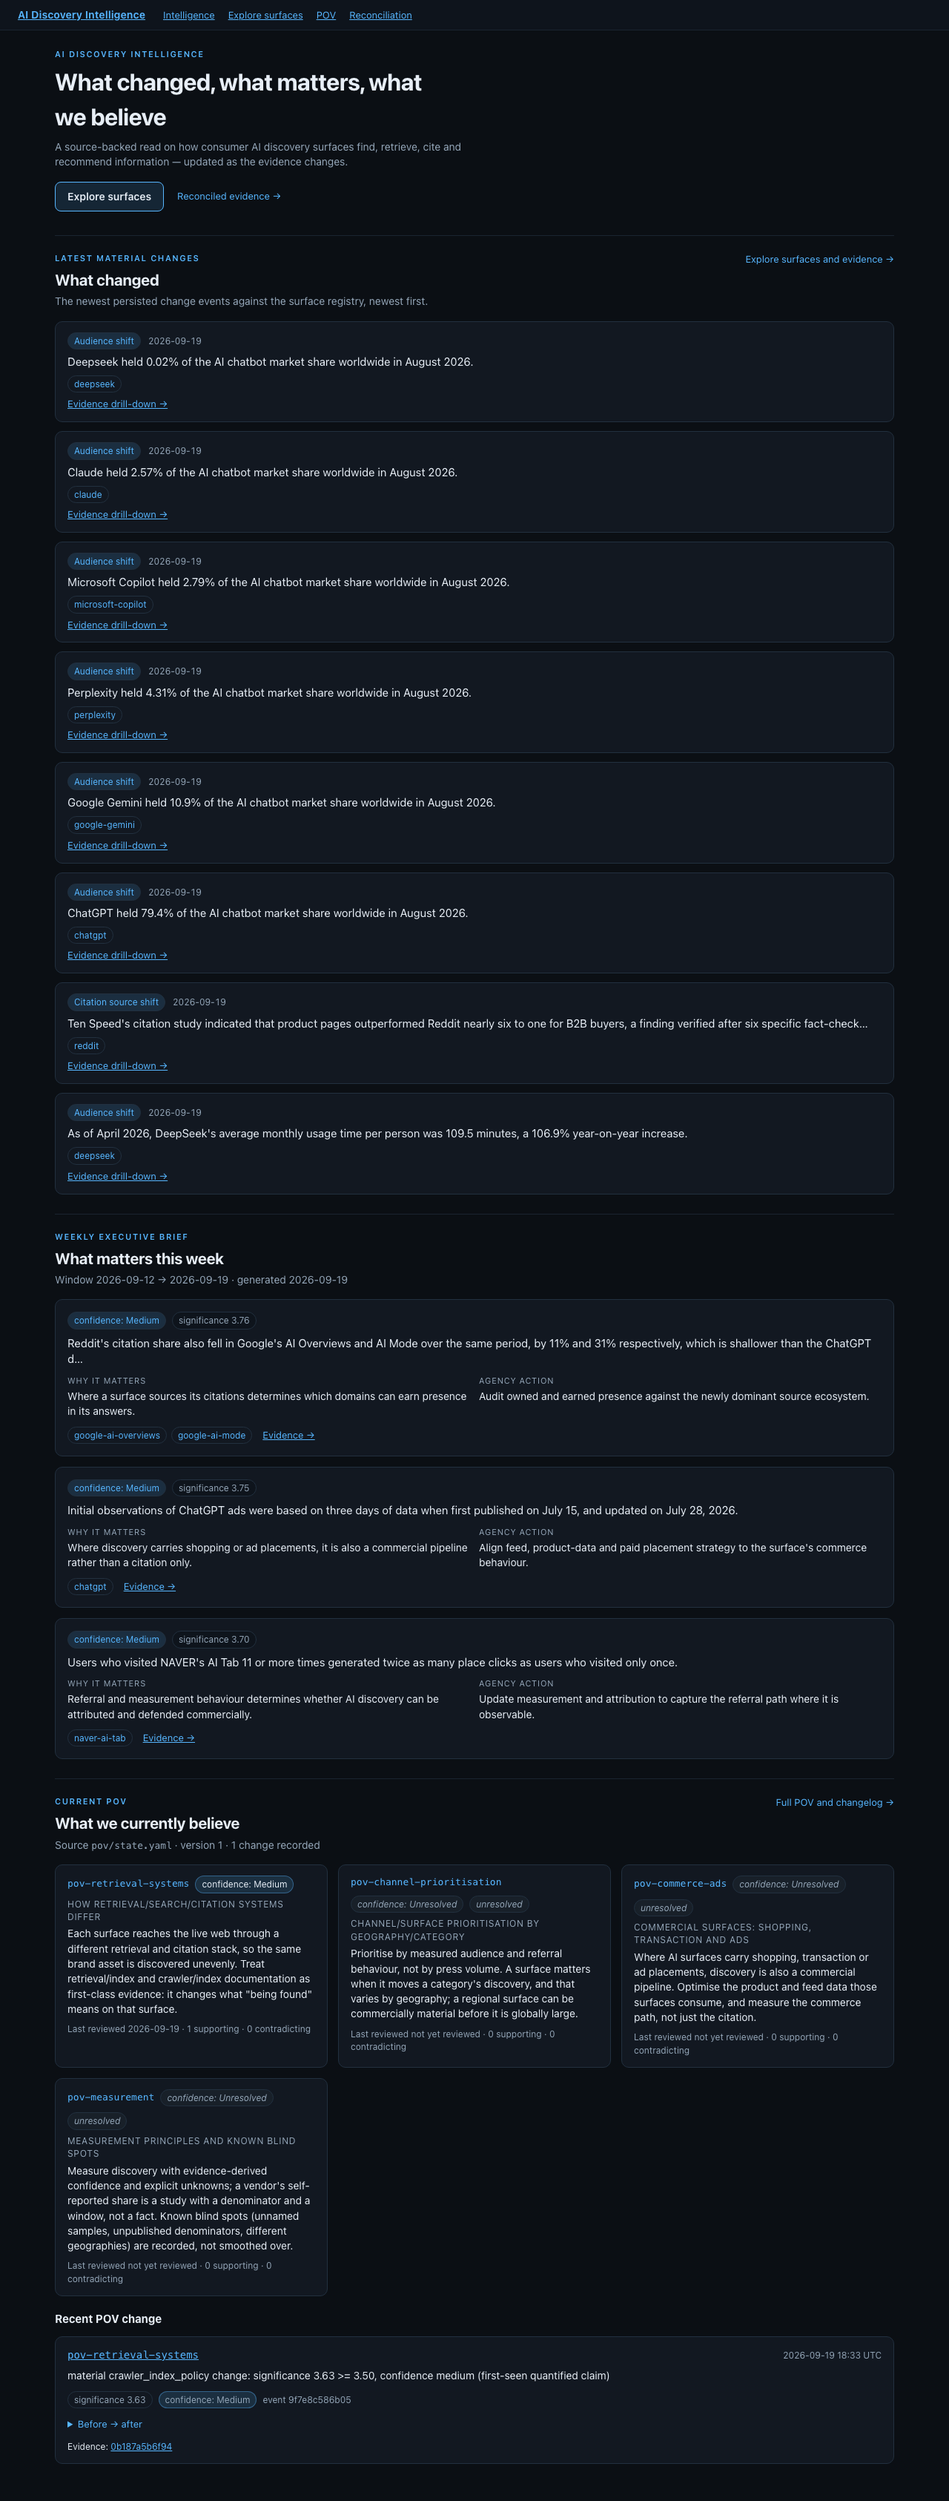
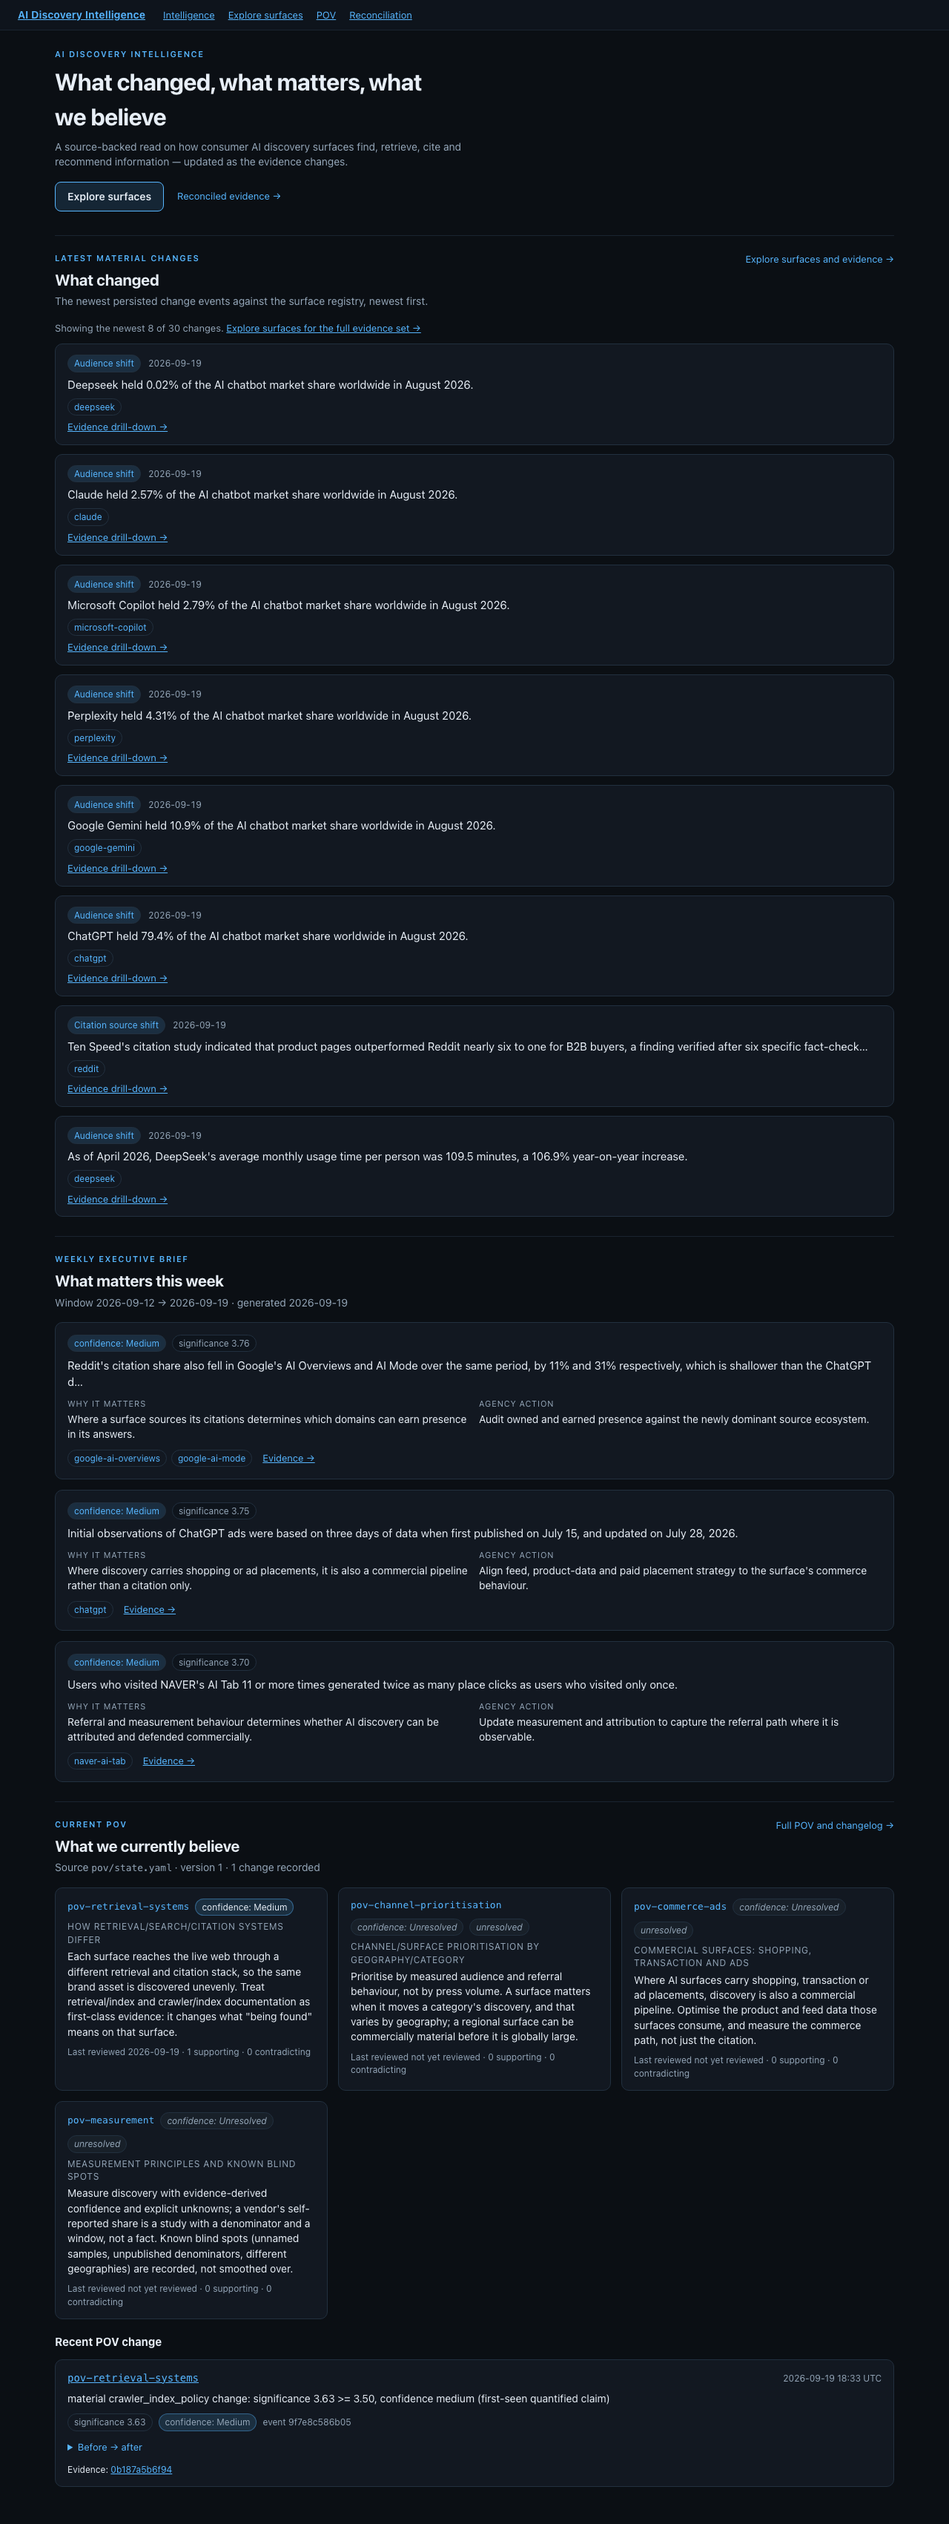
#45: address frontier review — fetch timeout, portable e2e, taxonomy, truncation
F2 (P2): bound the landing-critical reads. `fetchEvents`/`fetchBrief` now pass
`AbortSignal.timeout(2500)` (INTEL_FETCH_TIMEOUT_MS, matching
`@/lib/reconciliation`), so a slow/hung backend renders the explicit
unavailable state instead of hanging the force-dynamic homepage.

F4 (P2): make `e2e/landing.spec.ts` portable. It now asserts only structural
invariants — exactly one mutually-exclusive state per section (populated /
explicit-empty / unavailable) — and gates live-data assertions behind the
repo's `HAS_API` convention. Passes on a fresh clone with no API and on a
healthy-but-empty backend.

F1 (P2): align the event-type labels with the real backend EventType taxonomy
(src/ai_discovery/change_events.py) and add a Title-Case fallback so taxonomy
drift renders consistently. Helpers moved to `lib/intel.ts` and covered by a
unit test asserting every backend EventType has a label or a well-formed
fallback.

F3 (P3): disclose the 8-item truncation ("Showing the newest 8 of N changes")
with a link to the fuller evidence view.

F5 (P3): clamp unbounded brief prose defensively via `clampText`.

Tests: intel.test.ts now covers the timeout path (hung fetch -> error, no
hang), the taxonomy, and clampText. 63 unit tests pass; e2e 23 passed / 7
viewport-skips with the live API, and landing passes with no API set.

Refs #45

diff --git a/web/e2e/landing.spec.ts b/web/e2e/landing.spec.ts
@@ -2,6 +2,7 @@ import { expect, test } from "@playwright/test";
 import { mkdirSync } from "node:fs";
 
 const SHOTS = "proof";
+const HAS_API = Boolean(process.env.EVIDENCE_API_URL || process.env.EVIDENCE_FIXTURE);
 
 /** Screenshot path namespaced by project so desktop and mobile never collide. */
 function shot(testInfo: import("@playwright/test").TestInfo, name: string): string {
@@ -14,61 +15,97 @@ test.beforeAll(() => {
 });
 
 /**
- * Real-browser proof for the intelligence-first landing (issue #45). It runs
- * against the live evidence API configured for the app: the landing must show
- * real material changes, the real weekly brief and the canonical POV. An
- * unreachable backend fails these rather than passing on fixtures.
+ * Landing proof for issue #45. This file is portable: on a fresh clone with no
+ * `EVIDENCE_API_URL` the landing renders its explicit unavailable states and
+ * these tests still pass. The live-data assertions only run when the API is
+ * configured (matching the `HAS_API` convention in `evidence-drilldown.spec.ts`),
+ * so a healthy-but-empty backend is also a passing case.
  *
- * The empty-versus-unavailable distinction is asserted structurally: exactly
- * one state per section is present, and its test id names which (…-empty vs
- * …-unavailable). The branch logic itself is unit-tested in tests/intel.test.ts.
+ * The invariant asserted everywhere is structural: each section renders EXACTLY
+ * ONE of its mutually-exclusive states — populated, explicit-empty, or
+ * unavailable — and never more than one, and never none.
  */
-test("landing leads with real changes, brief and current POV", async ({ page }, testInfo) => {
+async function assertSingleState(
+  page: import("@playwright/test").Page,
+  section: string,
+  stateIds: string[],
+): Promise<void> {
+  const scope = page.getByTestId(section);
+  await expect(scope).toBeVisible();
+  const present = await scope
+    .locator(stateIds.map((id) => `[data-testid="${id}"]`).join(", "))
+    .count();
+  expect(present, `${section} must render exactly one state`).toBe(1);
+}
+
+test("landing renders a single, well-formed state per section", async ({ page }, testInfo) => {
   await page.goto("/");
 
   // Hero frames the product, not the registry.
   await expect(page.getByRole("heading", { level: 1 })).toContainText("What changed");
   await expect(page.getByRole("link", { name: "Explore surfaces", exact: true }).first()).toBeVisible();
 
-  // 1. Latest material changes from the real /events feed.
-  const changes = page.getByTestId("landing-changes");
-  await expect(changes).toBeVisible();
-  await expect(changes.getByTestId("changes-unavailable")).toHaveCount(0);
-  await expect(changes.getByTestId("change-list")).toBeVisible();
-  const changeItems = changes.getByTestId("change-list").locator("> li");
-  expect(await changeItems.count()).toBeGreaterThanOrEqual(1);
-  expect((await changeItems.first().innerText()).trim().length).toBeGreaterThan(10);
+  // Each section renders exactly one of populated / explicit-empty / unavailable.
+  await assertSingleState(page, "landing-changes", ["change-list", "changes-empty", "changes-unavailable"]);
+  await assertSingleState(page, "landing-brief", ["brief-list", "brief-empty", "brief-unavailable"]);
+  await assertSingleState(page, "landing-pov", ["pov-summary"]);
 
-  // 2. Weekly executive brief from the real /brief feed.
-  const brief = page.getByTestId("landing-brief");
-  await expect(brief).toBeVisible();
-  await expect(brief.getByTestId("brief-unavailable")).toHaveCount(0);
-  await expect(brief.getByTestId("brief-list")).toBeVisible();
-  await expect(brief.getByTestId("brief-item").first()).toContainText("Why it matters");
-  await expect(brief.getByTestId("brief-item").first()).toContainText("Agency action");
+  // POV is canonical (committed artifact), so it must always have propositions.
+  expect(await page.getByTestId("pov-summary").locator("> li").count()).toBeGreaterThanOrEqual(1);
 
-  // 3. Current POV from the canonical artifact.
-  const pov = page.getByTestId("landing-pov");
-  await expect(pov).toBeVisible();
-  const povItems = pov.getByTestId("pov-summary").locator("> li");
-  expect(await povItems.count()).toBeGreaterThanOrEqual(1);
-  await expect(pov).toContainText("confidence");
+  // The stale "awaiting ingestion" copy is nowhere on the landing.
+  expect(await page.locator("body").innerText()).not.toContain("awaiting ingestion");
 
   await page.screenshot({ path: shot(testInfo, "intelligence"), fullPage: true });
 });
 
+test("landing shows real changes, brief and current POV from the live API", async ({ page }, testInfo) => {
+  test.skip(!HAS_API, "requires EVIDENCE_API_URL or EVIDENCE_FIXTURE=1");
+  await page.goto("/");
+
+  const changes = page.getByTestId("landing-changes");
+  const brief = page.getByTestId("landing-brief");
+
+  // Live API configured: the landing must NOT render the unavailable state, and
+  // must either show populated data or the honest empty state (both valid).
+  await expect(changes.getByTestId("changes-unavailable")).toHaveCount(0);
+  await expect(brief.getByTestId("brief-unavailable")).toHaveCount(0);
+
+  const changeList = changes.getByTestId("change-list");
+  if ((await changeList.count()) > 0) {
+    const items = changeList.locator("> li");
+    expect(await items.count()).toBeGreaterThanOrEqual(1);
+    expect((await items.first().innerText()).trim().length).toBeGreaterThan(10);
+    // Truncation is disclosed when the feed exceeds the landing's limit.
+    if ((await items.count()) === 8) {
+      await expect(changes.getByTestId("changes-truncation")).toBeVisible();
+    }
+    await page.screenshot({ path: shot(testInfo, "changes"), fullPage: false });
+  } else {
+    await expect(changes.getByTestId("changes-empty")).toBeVisible();
+  }
+
+  const briefList = brief.getByTestId("brief-list");
+  if ((await briefList.count()) > 0) {
+    const first = brief.getByTestId("brief-item").first();
+    await expect(first).toContainText("Why it matters");
+    await expect(first).toContainText("Agency action");
+    await page.screenshot({ path: shot(testInfo, "brief"), fullPage: false });
+  } else {
+    await expect(brief.getByTestId("brief-empty")).toBeVisible();
+  }
+});
+
 test("empty and unavailable states are distinct and mutually exclusive", async ({ page }) => {
   await page.goto("/");
-  // Each section renders exactly one of its states; the ids name which one.
   for (const section of ["landing-changes", "landing-brief"]) {
-    const states = page
-      .getByTestId(section)
-      .locator('[data-testid$="-unavailable"], [data-testid$="-empty"]');
+    const states = page.getByTestId(section).locator('[data-testid$="-unavailable"], [data-testid$="-empty"]');
     expect(await states.count()).toBeLessThanOrEqual(1);
   }
-  // The unavailable copy is unmistakably different from the empty copy.
   const body = await page.locator("body").innerText();
   expect(body).not.toContain("awaiting ingestion");
+  // The unavailable copy and the empty copy are worded differently.
+  expect(body).not.toMatch(/not reachable right now[\s\S]*no material item qualifies/);
 });
 
 test("navigates into Explore surfaces, which keeps all 35 and narrows on search", async ({ page }, testInfo) => {
@@ -81,12 +118,10 @@ test("navigates into Explore surfaces, which keeps all 35 and narrows on search"
 
   await page.getByTestId("search-input").fill("China");
   const summary = page.getByTestId("result-summary");
-  await expect(summary).toContainText('matching');
-  const before = 35;
-  const afterText = await summary.innerText();
-  const after = Number(afterText.match(/^(\d+)/)?.[1] ?? "0");
+  await expect(summary).toContainText("matching");
+  const after = Number((await summary.innerText()).match(/^(\d+)/)?.[1] ?? "0");
   expect(after).toBeGreaterThan(0);
-  expect(after).toBeLessThan(before);
+  expect(after).toBeLessThan(35);
 
   await page.screenshot({ path: shot(testInfo, "explore-surfaces"), fullPage: false });
 });

diff --git a/web/lib/intel.ts b/web/lib/intel.ts
@@ -51,6 +51,14 @@ export interface BriefOutcome {
 
 const NO_BASE = "EVIDENCE_API_URL is not configured";
 
+/**
+ * Bounded per-call timeout (issue #45 review F2). The landing is
+ * `force-dynamic` and fetches both endpoints in `Promise.all`, so a slow or
+ * hung backend would otherwise hang the whole homepage instead of rendering the
+ * explicit "unavailable" state. Matches the pattern in `@/lib/reconciliation`.
+ */
+export const INTEL_FETCH_TIMEOUT_MS = 2500;
+
 /** Latest material change events, newest first. */
 export async function fetchEvents(): Promise<EventsOutcome> {
   if (!evidenceApiBase()) {
@@ -58,7 +66,10 @@ export async function fetchEvents(): Promise<EventsOutcome> {
     return { status: "unconfigured", items: [] };
   }
   try {
-    const res = await fetch(`${evidenceApiBase()}/events`, { next: { revalidate: 60 } });
+    const res = await fetch(`${evidenceApiBase()}/events`, {
+      next: { revalidate: 60 },
+      signal: AbortSignal.timeout(INTEL_FETCH_TIMEOUT_MS),
+    });
     if (!res.ok) {
       console.error(`[intel] GET /events failed: HTTP ${res.status}`);
       return { status: "error", items: [] };
@@ -79,7 +90,10 @@ export async function fetchBrief(): Promise<BriefOutcome> {
     return { status: "unconfigured", brief: null };
   }
   try {
-    const res = await fetch(`${evidenceApiBase()}/brief`, { next: { revalidate: 60 } });
+    const res = await fetch(`${evidenceApiBase()}/brief`, {
+      next: { revalidate: 60 },
+      signal: AbortSignal.timeout(INTEL_FETCH_TIMEOUT_MS),
+    });
     if (!res.ok) {
       console.error(`[intel] GET /brief failed: HTTP ${res.status}`);
       return { status: "error", brief: null };
@@ -91,4 +105,44 @@ export async function fetchBrief(): Promise<BriefOutcome> {
     console.error("[intel] GET /brief failed:", error);
     return { status: "error", brief: null };
   }
+}
+
+
+/**
+ * The backend `EventType` taxonomy (`src/ai_discovery/change_events.py`):
+ * product_launch, retrieval_or_index_change, audience_shift,
+ * citation_source_shift, crawler_policy, commerce_ads, referral_measurement,
+ * correction_retraction. Kept here (not in a JSX component) so tests can assert
+ * the map covers the taxonomy and that un-mapped values fall back consistently.
+ */
+export const EVENT_TYPE_LABELS: Record<string, string> = {
+  product_launch: "Product launch",
+  retrieval_or_index_change: "Retrieval or index change",
+  audience_shift: "Audience shift",
+  citation_source_shift: "Citation source shift",
+  crawler_policy: "Crawler policy",
+  commerce_ads: "Commerce and ads",
+  referral_measurement: "Referral measurement",
+  correction_retraction: "Correction or retraction",
+};
+
+/** Title-Case a snake_case taxonomy value for consistent fallback casing. */
+export function titleCaseEventType(value: string): string {
+  return value
+    .split("_")
+    .filter(Boolean)
+    .map((part) => part[0].toUpperCase() + part.slice(1))
+    .join(" ");
+}
+
+/** Human label for an event type, with a Title-Case fallback for taxonomy drift. */
+export function eventTypeLabel(value: string): string {
+  return EVENT_TYPE_LABELS[value] ?? titleCaseEventType(value);
+}
+
+/** Defensive clamp for unbounded backend prose (issue #45 review F5). */
+export function clampText(value: string, max = 320): string {
+  const trimmed = value.trim();
+  if (trimmed.length <= max) return trimmed;
+  return `${trimmed.slice(0, max).trimEnd()}…`;
 }

diff --git a/web/tests/intel.test.ts b/web/tests/intel.test.ts
@@ -110,3 +110,67 @@ describe("fetchBrief", () => {
     expect(outcome.status).toBe("unconfigured");
   });
 });
+
+describe("event type taxonomy (review F1)", () => {
+  // Mirrors the backend EventType enum in src/ai_discovery/change_events.py.
+  const BACKEND_EVENT_TYPES = [
+    "product_launch",
+    "retrieval_or_index_change",
+    "audience_shift",
+    "citation_source_shift",
+    "crawler_policy",
+    "commerce_ads",
+    "referral_measurement",
+    "correction_retraction",
+  ];
+
+  it("maps every backend EventType to a human label", async () => {
+    const { EVENT_TYPE_LABELS, eventTypeLabel } = await import("../lib/intel");
+    for (const value of BACKEND_EVENT_TYPES) {
+      expect(EVENT_TYPE_LABELS[value], `missing label for ${value}`).toBeTruthy();
+      expect(eventTypeLabel(value)).toBe(EVENT_TYPE_LABELS[value]);
+    }
+  });
+
+  it("falls back to consistent Title-Case for unmapped taxonomy values", async () => {
+    const { eventTypeLabel, titleCaseEventType } = await import("../lib/intel");
+    expect(eventTypeLabel("some_new_event_type")).toBe("Some New Event Type");
+    expect(titleCaseEventType("a_b_c")).toBe("A B C");
+    // Never emits raw snake_case or lowercase-initial text.
+    expect(eventTypeLabel("brand_new_thing")).not.toContain("_");
+    expect(eventTypeLabel("brand_new_thing")[0]).toBe(eventTypeLabel("brand_new_thing")[0].toUpperCase());
+  });
+});
+
+describe("fetch timeout (review F2)", () => {
+  it("aborts a hung request and returns the error outcome, not a hang", async () => {
+    process.env.EVIDENCE_API_URL = "http://example.test";
+    vi.stubGlobal(
+      "fetch",
+      vi.fn(
+        (_url: string, init?: RequestInit) =>
+          new Promise<Response>((_resolve, reject) => {
+            // Never resolves; only the abort signal can settle it.
+            init?.signal?.addEventListener("abort", () =>
+              reject(new DOMException("The operation was aborted.", "AbortError")),
+            );
+          }),
+      ),
+    );
+    const { fetchEvents, INTEL_FETCH_TIMEOUT_MS } = await import("../lib/intel");
+    expect(INTEL_FETCH_TIMEOUT_MS).toBeLessThanOrEqual(3000);
+    const outcome = await fetchEvents();
+    expect(outcome.status).toBe("error");
+    expect(outcome.items).toEqual([]);
+  }, 10_000);
+});
+
+describe("clampText (review F5)", () => {
+  it("truncates long prose and leaves short prose untouched", async () => {
+    const { clampText } = await import("../lib/intel");
+    expect(clampText("short")).toBe("short");
+    const long = "x".repeat(500);
+    expect(clampText(long, 320).length).toBeLessThanOrEqual(321);
+    expect(clampText(long, 320).endsWith("…")).toBe(true);
+  });
+});

diff --git a/web/components/landing-changes.tsx b/web/components/landing-changes.tsx
@@ -1,5 +1,5 @@
 import Link from "next/link";
-import type { EventsOutcome } from "@/lib/intel";
+import { eventTypeLabel, type EventsOutcome } from "@/lib/intel";
 import { formatDate } from "@/lib/evidence";
 import { evidenceHref } from "@/lib/pov";
 
@@ -11,20 +11,7 @@ import { evidenceHref } from "@/lib/pov";
  * surface evidence for the claim behind the event. When the backend is
  * unreachable the section says so rather than showing a misleading empty list.
  */
-const HOW_MANY = 8;
-
-/** Human labels for the persisted event types the feed emits. */
-const EVENT_TYPE_LABELS: Record<string, string> = {
-  audience_shift: "Audience shift",
-  citation_source_shift: "Citation source shift",
-  commerce_ads: "Commerce and ads",
-  crawler_policy: "Crawler policy",
-  referral_measurement: "Referral measurement",
-};
-
-function eventTypeLabel(value: string): string {
-  return EVENT_TYPE_LABELS[value] ?? value.replace(/_/g, " ");
-}
+export const HOW_MANY = 8;
 
 /** Best available date for an event, honest about absence. */
 function eventDate(event: { effective_from?: string | null; published_at?: string | null; observed_at?: string | null }): string {
@@ -58,7 +45,14 @@ export function LandingChanges({ outcome }: { outcome: EventsOutcome }) {
           No material change event is currently recorded.
         </p>
       ) : (
-        <ol className="change-list" data-testid="change-list">
+        <>
+          {outcome.items.length > HOW_MANY ? (
+            <p className="change-truncation" data-testid="changes-truncation">
+              Showing the newest {HOW_MANY} of {outcome.items.length} changes.{" "}
+              <Link href="/surfaces">Explore surfaces for the full evidence set →</Link>
+            </p>
+          ) : null}
+          <ol className="change-list" data-testid="change-list">
           {items.map((event) => (
             <li className="change-item" key={event.id} data-testid={`change-${event.id}`}>
               <div className="change-item-head">
@@ -82,7 +76,8 @@ export function LandingChanges({ outcome }: { outcome: EventsOutcome }) {
               ) : null}
             </li>
           ))}
-        </ol>
+          </ol>
+        </>
       )}
     </section>
   );

diff --git a/web/components/landing-brief.tsx b/web/components/landing-brief.tsx
@@ -1,5 +1,5 @@
 import Link from "next/link";
-import type { BriefOutcome, BriefItem } from "@/lib/intel";
+import { clampText, type BriefOutcome, type BriefItem } from "@/lib/intel";
 import { formatDate } from "@/lib/evidence";
 import { CONFIDENCE_LABELS, evidenceHref, type ConfidenceLabel } from "@/lib/pov";
 
@@ -21,15 +21,15 @@ function BriefCard({ item }: { item: BriefItem }) {
         <span className="pill brief-significance">significance {item.significance.toFixed(2)}</span>
         {item.is_watch_item ? <span className="pill brief-watch">watch item</span> : null}
       </div>
-      <p className="brief-change">{item.change}</p>
+      <p className="brief-change">{clampText(item.change)}</p>
       <dl className="brief-why">
         <div>
           <dt>Why it matters</dt>
-          <dd>{item.why_it_matters}</dd>
+          <dd>{clampText(item.why_it_matters)}</dd>
         </div>
         <div>
           <dt>Agency action</dt>
-          <dd>{item.agency_action}</dd>
+          <dd>{clampText(item.agency_action)}</dd>
         </div>
       </dl>
       <p className="brief-meta">

diff --git a/web/app/globals.css b/web/app/globals.css
@@ -676,6 +676,7 @@ main { flex: 1; }
 
 /* Latest material changes */
 .change-list { list-style: none; margin: 0; padding: 0; display: flex; flex-direction: column; gap: 12px; }
+.change-truncation { margin: 0 0 12px; color: var(--text-muted); font-size: 13px; }
 .change-item {
   padding: 14px 16px;
   border: 1px solid var(--border);
